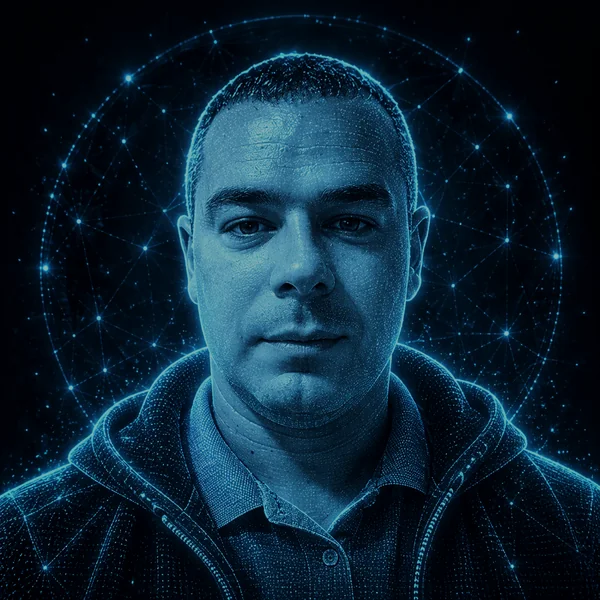
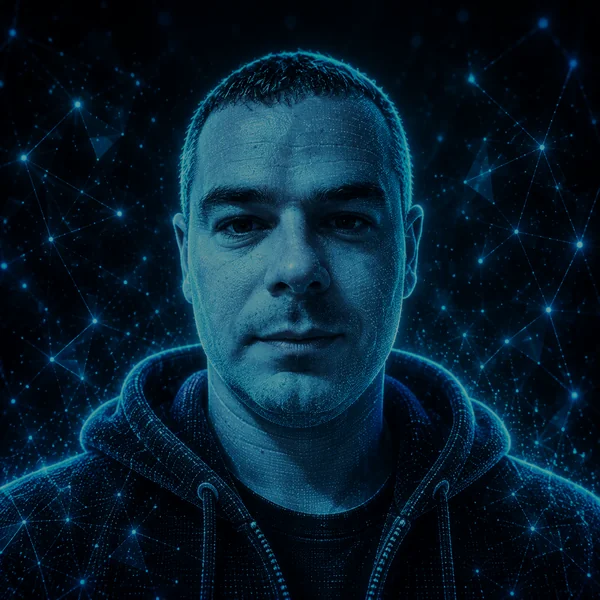
Update /about profile photo, darkened 40%

diff --git a/layouts/_default/single.html b/layouts/_default/single.html
@@ -30,7 +30,7 @@
                 {{ if eq .RelPermalink "/about/" }}
                     <img class="identity-wordmark about-wordmark" src="/images/a1exandar-logo.svg" alt="A1ex@ndar">
                     <div class="about-content">
-                        <img class="about-profile" src="/images/aleksandar-profile.webp?v=4" alt="Portrait of Aleksandar">
+                        <img class="about-profile" src="/images/aleksandar-profile.webp?v=5" alt="Portrait of Aleksandar">
                         <div class="about-copy" data-i18n="about.body">
                             {{ .Content }}
                         </div>
